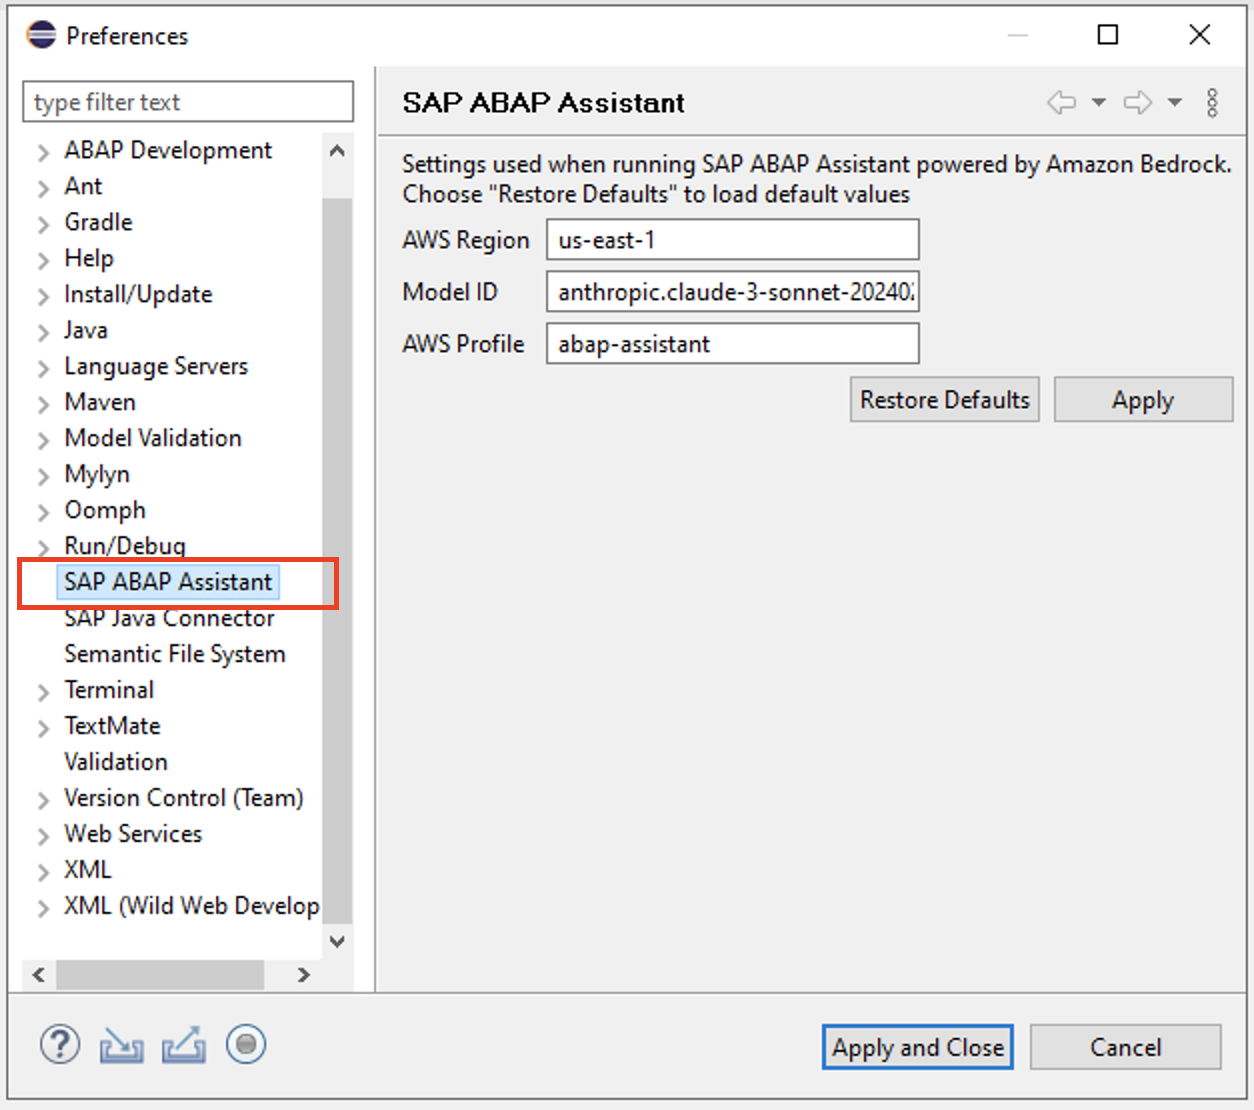
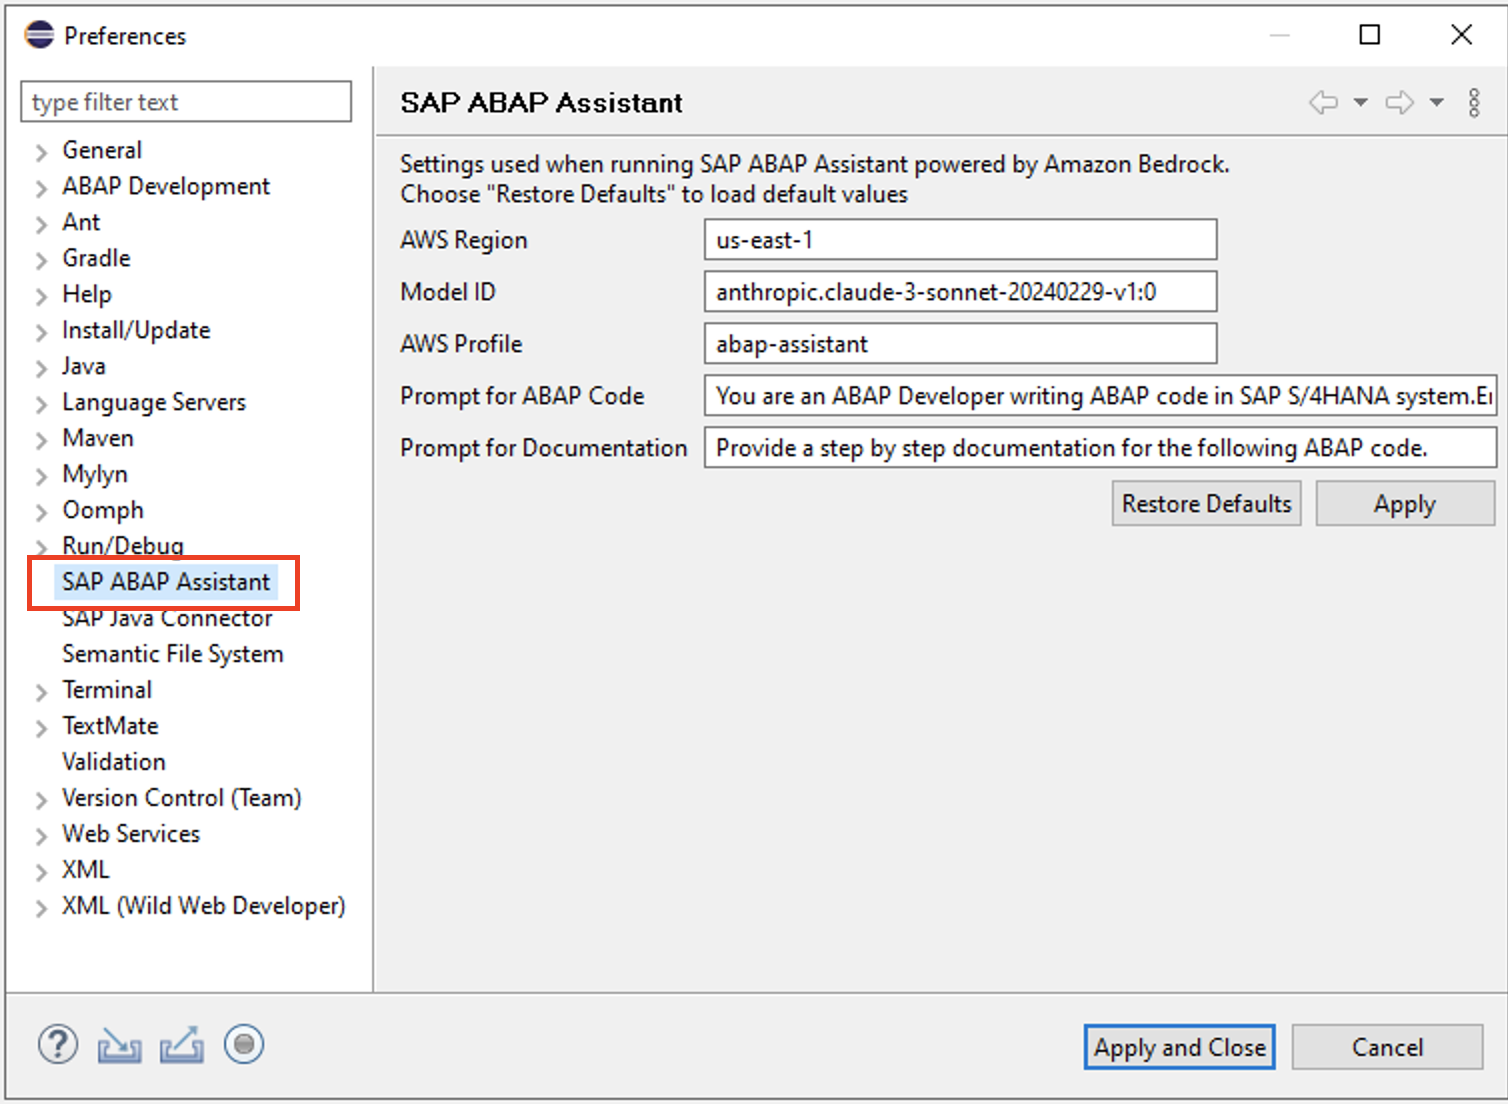
Update plugin version

Changed region(s): [[0.0, 0.0, 1.0, 1.0]]

diff --git a/source/com.demo.abap_assistant_plugin/src/com/demo/abap_assistant_plugin/preferences/ABAPAssistantPreferences.java b/source/com.demo.abap_assistant_plugin/src/com/demo/abap_assistant_plugin/preferences/ABAPAssistantPreferences.java
@@ -36,7 +36,7 @@ import com.demo.abap_assistant_plugin.helpers.ABAPAssistantConstants;
 public class ABAPAssistantPreferences extends FieldEditorPreferencePage implements IWorkbenchPreferencePage {
 
 	
-	StringFieldEditor awsRegion, modelId, awsProfile = null;
+	StringFieldEditor awsRegion, modelId, awsProfile, promptCode, promptDoc = null;
 	
 	
 	public ABAPAssistantPreferences() {
@@ -51,12 +51,17 @@ public class ABAPAssistantPreferences extends FieldEditorPreferencePage implemen
 
 	@Override
 	protected void createFieldEditors() {	
-		awsRegion = new StringFieldEditor(ABAPAssistantConstants.PREFERENCES_AWS_REGION, "AWS Region", 25, getFieldEditorParent());
+		awsRegion = new StringFieldEditor(ABAPAssistantConstants.PREFERENCES_AWS_REGION, "AWS Region", 35, getFieldEditorParent());
 		addField((FieldEditor)awsRegion);
-		modelId = new StringFieldEditor(ABAPAssistantConstants.PREFERENCES_MODEL_ID, "Model ID", 25, getFieldEditorParent());
+		modelId = new StringFieldEditor(ABAPAssistantConstants.PREFERENCES_MODEL_ID, "Model ID", 35, getFieldEditorParent());
 		addField((FieldEditor)modelId);
-		awsProfile = new StringFieldEditor(ABAPAssistantConstants.PREFERENCES_AWS_PROFILE, "AWS Profile", 25, getFieldEditorParent());
+		awsProfile = new StringFieldEditor(ABAPAssistantConstants.PREFERENCES_AWS_PROFILE, "AWS Profile", 35, getFieldEditorParent());
 		addField((FieldEditor)awsProfile);
+		promptCode = new StringFieldEditor(ABAPAssistantConstants.PREFERENCES_PROMPT_CODE, "Prompt for ABAP Code", 55, getFieldEditorParent());
+		addField((FieldEditor)promptCode);
+		promptDoc = new StringFieldEditor(ABAPAssistantConstants.PREFERENCES_PROMPT_DOC, "Prompt for Documentation", 55, getFieldEditorParent());
+		addField((FieldEditor)promptDoc);
+		
 	}
 	
 	@Override
@@ -66,6 +71,8 @@ public class ABAPAssistantPreferences extends FieldEditorPreferencePage implemen
 			pref.put(ABAPAssistantConstants.PREFERENCES_AWS_REGION, awsRegion.getStringValue(), true);
 			pref.put(ABAPAssistantConstants.PREFERENCES_MODEL_ID, modelId.getStringValue(), true);
 			pref.put(ABAPAssistantConstants.PREFERENCES_AWS_PROFILE, awsProfile.getStringValue(), true);
+			pref.put(ABAPAssistantConstants.PREFERENCES_PROMPT_CODE, promptCode.getStringValue(), true);
+			pref.put(ABAPAssistantConstants.PREFERENCES_PROMPT_DOC, promptDoc.getStringValue(), true);
 			pref.flush();
 		} catch (StorageException e) {
 			e.printStackTrace();
@@ -83,6 +90,8 @@ public class ABAPAssistantPreferences extends FieldEditorPreferencePage implemen
 			awsRegion.setStringValue(prefs.get(ABAPAssistantConstants.PREFERENCES_AWS_REGION, ""));
 			modelId.setStringValue(prefs.get(ABAPAssistantConstants.PREFERENCES_MODEL_ID, ""));
 			awsProfile.setStringValue(prefs.get(ABAPAssistantConstants.PREFERENCES_AWS_PROFILE, ""));
+			promptCode.setStringValue(prefs.get(ABAPAssistantConstants.PREFERENCES_PROMPT_CODE, ABAPAssistantConstants.PROMPT_ABAP_CODE));
+			promptDoc.setStringValue(prefs.get(ABAPAssistantConstants.PREFERENCES_PROMPT_DOC, ABAPAssistantConstants.PROMPT_ABAP_DOC));
 		} catch (StorageException e) {
 			e.printStackTrace();
 		}
@@ -95,6 +104,8 @@ public class ABAPAssistantPreferences extends FieldEditorPreferencePage implemen
 	    awsRegion.setStringValue(ABAPAssistantConstants.PREFERENCES_AWS_REGION_DEFAULT);
 	    modelId.setStringValue(ABAPAssistantConstants.PREFERENCES_MODEL_ID_DEFAULT);
 	    awsProfile.setStringValue(ABAPAssistantConstants.PREFERENCES_AWS_PROFILE_DEFAULT);
+	    promptCode.setStringValue(ABAPAssistantConstants.PROMPT_ABAP_CODE);
+	    promptDoc.setStringValue(ABAPAssistantConstants.PROMPT_ABAP_DOC);
 	}
 	
 

diff --git a/source/com.demo.abap_assistant_plugin/src/com/demo/abap_assistant_plugin/handlers/ABAPCodeHandler.java b/source/com.demo.abap_assistant_plugin/src/com/demo/abap_assistant_plugin/handlers/ABAPCodeHandler.java
@@ -79,12 +79,11 @@ public class ABAPCodeHandler extends AbstractHandler {
 							if (selectionProvider != null) {
 								ISelection selection = selectionProvider.getSelection();
 								ITextSelection textSelection = (ITextSelection) selection;
-								System.out.println("Selected text = " + textSelection.getText());
 
 								try {
 
 									String selectedText = textSelection.getText().replaceAll("\\*", "").trim();
-									System.out.println("promptText = " + selectedText);
+									//System.out.println("promptText = " + selectedText);
 									
 									if (!selectedText.equalsIgnoreCase("")) {
 
@@ -95,9 +94,8 @@ public class ABAPCodeHandler extends AbstractHandler {
 										// Anthropic Claude 2 Models
 										if (modelID.equalsIgnoreCase(ABAPAssistantConstants.CLAUDE_MODEL_ID_V2)
 												|| modelID.equalsIgnoreCase(ABAPAssistantConstants.CLAUDE_MODEL_ID_V2_1)) {
-											String prompt = "\n\nHuman: " + ABAPAssistantConstants.PROMPT_ABAP_CODE
+											String prompt = "\n\nHuman: " + ABAPAssistantHelper.getPreferences(ABAPAssistantConstants.PREFERENCES_PROMPT_CODE)
 													+ selectedText + "\nAssistant:";
-											System.out.println("Prompt is as follows \n" + prompt);
 											result = ABAPAssistantModelHelper.invokeClaude2Models(prompt, modelID);
 											doc.replace(doc.getLength(), 0, "\n" + result + "\n");
 										}
@@ -105,16 +103,14 @@ public class ABAPCodeHandler extends AbstractHandler {
 										else if (modelID
 												.equalsIgnoreCase(ABAPAssistantConstants.CLAUDE3_MODEL_ID_SONNET)
 												|| modelID.equalsIgnoreCase(ABAPAssistantConstants.CLAUDE3_MODEL_ID_HAIKU)) {
-											String prompt = ABAPAssistantConstants.PROMPT_ABAP_CODE + selectedText;
-											System.out.println("Prompt is as follows \n" + prompt);
+											String prompt = ABAPAssistantHelper.getPreferences(ABAPAssistantConstants.PREFERENCES_PROMPT_CODE) + selectedText;
 											result = ABAPAssistantModelHelper.invokeClaude3Models(prompt, modelID);
 											doc.replace(doc.getLength(), 0, "\n" + result + "\n");
 										}
 										// AI21 Jurassic Model
 										else if (modelID.equalsIgnoreCase(ABAPAssistantConstants.JURASSIC_MODEL_ID_MID)
 												|| modelID.equalsIgnoreCase(ABAPAssistantConstants.JURASSIC_MODEL_ID_ULTRA)) {
-											String prompt = ABAPAssistantConstants.PROMPT_ABAP_CODE + selectedText;
-											System.out.println("Prompt is as follows \n" + prompt);
+											String prompt = ABAPAssistantHelper.getPreferences(ABAPAssistantConstants.PREFERENCES_PROMPT_CODE) + selectedText;
 											result = ABAPAssistantModelHelper.invokeJurassicModels(prompt, modelID);
 											doc.replace(doc.getLength(), 0, "\n" + result + "\n");
 										}

diff --git a/source/com.demo.abap_assistant_plugin/src/com/demo/abap_assistant_plugin/handlers/ABAPDocumentationHandler.java b/source/com.demo.abap_assistant_plugin/src/com/demo/abap_assistant_plugin/handlers/ABAPDocumentationHandler.java
@@ -77,11 +77,10 @@ public class ABAPDocumentationHandler extends AbstractHandler {
 							if (selectionProvider != null) {
 								ISelection selection = selectionProvider.getSelection();
 								ITextSelection textSelection = (ITextSelection) selection;
-								System.out.println("Selected text = " + textSelection.getText());
 
 								try {
 									String selectedText = textSelection.getText().trim();;
-									System.out.println("promptText = " + selectedText);
+									//System.out.println("promptText = " + selectedText);
 									
 									if (!selectedText.equalsIgnoreCase("")) {
 	
@@ -92,21 +91,21 @@ public class ABAPDocumentationHandler extends AbstractHandler {
 										//Anthropic Claude 2 Models
 										if (modelID.equalsIgnoreCase(ABAPAssistantConstants.CLAUDE_MODEL_ID_V2) || 
 											modelID.equalsIgnoreCase(ABAPAssistantConstants.CLAUDE_MODEL_ID_V2_1)) {
-											String prompt = "\n\nHuman: " + ABAPAssistantConstants.PROMPT_ABAP_DOC + selectedText + "\nAssistant:";
+											String prompt = "\n\nHuman: " + ABAPAssistantHelper.getPreferences(ABAPAssistantConstants.PREFERENCES_PROMPT_DOC) + selectedText + "\nAssistant:";
 											result = ABAPAssistantModelHelper.invokeClaude2Models(prompt, modelID);
 											ABAPAssistantHelper.writeToConsole(result, activePage);
 										}
 										//Anthropic Claude 3 Models
 										else if (modelID.equalsIgnoreCase(ABAPAssistantConstants.CLAUDE3_MODEL_ID_SONNET) ||
 											modelID.equalsIgnoreCase(ABAPAssistantConstants.CLAUDE3_MODEL_ID_HAIKU)) {
-											String prompt = ABAPAssistantConstants.PROMPT_ABAP_DOC + selectedText;
+											String prompt = ABAPAssistantHelper.getPreferences(ABAPAssistantConstants.PREFERENCES_PROMPT_DOC) + selectedText;
 											result = ABAPAssistantModelHelper.invokeClaude3Models(prompt, modelID);
 											ABAPAssistantHelper.writeToConsole(result, activePage);
 										}
 										//AI21 Jurassic Model
 										else if (modelID.equalsIgnoreCase(ABAPAssistantConstants.JURASSIC_MODEL_ID_MID)|| 
 												 modelID.equalsIgnoreCase(ABAPAssistantConstants.JURASSIC_MODEL_ID_ULTRA)) {
-											String prompt = ABAPAssistantConstants.PROMPT_ABAP_DOC + selectedText;
+											String prompt = ABAPAssistantHelper.getPreferences(ABAPAssistantConstants.PREFERENCES_PROMPT_DOC) + selectedText;
 											result = ABAPAssistantModelHelper.invokeJurassicModels(prompt, modelID);
 											ABAPAssistantHelper.writeToConsole(result, activePage);
 										}

diff --git a/source/com.demo.abap_assistant_plugin/src/com/demo/abap_assistant_plugin/helpers/ABAPAssistantHelper.java b/source/com.demo.abap_assistant_plugin/src/com/demo/abap_assistant_plugin/helpers/ABAPAssistantHelper.java
@@ -48,7 +48,7 @@ public class ABAPAssistantHelper {
 		ISecurePreferences prefs = SecurePreferencesFactory.getDefault();
 		String prefvalue = "";
 		prefvalue = prefs.get(prefName, "").trim();
-		System.out.println(prefName+" = "+prefvalue);
+		//System.out.println(prefName+" = "+prefvalue);
 		return prefvalue;	
 	}
 	
@@ -90,7 +90,9 @@ public class ABAPAssistantHelper {
 	public static boolean checkPreferences() throws StorageException {
 		if(getPreferences(ABAPAssistantConstants.PREFERENCES_AWS_PROFILE).equals("")
 		   || getPreferences(ABAPAssistantConstants.PREFERENCES_AWS_REGION).equals("")
-		   || getPreferences(ABAPAssistantConstants.PREFERENCES_MODEL_ID).equals("")) {
+		   || getPreferences(ABAPAssistantConstants.PREFERENCES_MODEL_ID).equals("")
+		   || getPreferences(ABAPAssistantConstants.PREFERENCES_PROMPT_CODE).equals("")
+		   || getPreferences(ABAPAssistantConstants.PREFERENCES_PROMPT_DOC).equals("")){
 			return false;
 		}
 		return true;

diff --git a/source/com.demo.abap_assistant_plugin/src/com/demo/abap_assistant_plugin/helpers/ABAPAssistantConstants.java b/source/com.demo.abap_assistant_plugin/src/com/demo/abap_assistant_plugin/helpers/ABAPAssistantConstants.java
@@ -33,6 +33,8 @@ public class ABAPAssistantConstants {
 	public static final String PREFERENCES_AWS_REGION = "AWS-REGION";
 	public static final String PREFERENCES_MODEL_ID = "MODEL-ID";
 	public static final String PREFERENCES_AWS_PROFILE = "AWS-PROFILE";	
+	public static final String PREFERENCES_PROMPT_CODE = "PROMPT-CODE";	
+	public static final String PREFERENCES_PROMPT_DOC = "PROMPT-DOC";	
 
 	// Eclipse preferences Default constants
 	public static final String PREFERENCES_AWS_REGION_DEFAULT = "us-east-1";

diff --git a/README.md b/README.md
@@ -13,6 +13,7 @@
 5. [Setup](#setup)
     - [Authentication](#authentication)
     - [Plugin Installation](#plugin-installation)
+    - [Plugin Configuration](#plugin-configuration)
 6. [Running the Guidance](#running-the-guidance)
 7. [Next Steps](#next-steps)
 8. [Cleanup](#cleanup)
@@ -184,7 +185,7 @@ This guidance utilizes the `AdministratorAccess` role for deployment. For use in
     ```
 
 ### Plugin Installation
-1. From the main page of the GitHub repository, click **[Releases](https://github.com/aws-solutions-library-samples/guidance-for-improving-application-development-productivity-with-the-sap-abap-assistant-on-aws/releases)** . From the latest listed releae, download the SAP ABAP Assistant plugin zip file (for e.g. sap-abap-assistant-V1_0_17.zip) from the **Assets** section. Save the plugin zip file in your local file system.
+1. From the main page of the GitHub repository, click **[Releases](https://github.com/aws-solutions-library-samples/guidance-for-improving-application-development-productivity-with-the-sap-abap-assistant-on-aws/releases)** . From the latest listed releae, download the SAP ABAP Assistant plugin zip file (for e.g. sap-abap-assistant-V1_0_18.zip) from the **Assets** section. Save the plugin zip file in your local file system.
 
 2. Open Eclipse IDE and choose **Help -> Install New Software**. Choose the **Add…** button. In the next dialog window, choose **Archive…** and select the zip file that you downloaded. Choose **Add**.
 
@@ -211,6 +212,10 @@ Before using ABAP Assistant plugin , you need to set up the plugin preferences i
 * **Model ID** – Enter `anthropic.claude-3-sonnet-20240229-v1:0`. The plugin currently supports Anthropic Claude (v2, v2.1, Claude 3 Sonnet and Claude 3 Haiku) and Jurassic-2 (mid and ultra) models . Refer [this documentation](https://docs.aws.amazon.com/bedrock/latest/userguide/model-ids.html) for list of Amazon bedrock Model IDs. 
 
 * **AWS Profile** – Enter the name of the AWS profile `abap-assistant` that you created
+
+* **Prompt for ABAP Code** – The prompt for generating ABAP code is prepopulated. If required, you can change the prompt as per your requirements.
+
+* **Prompt for Docmentation** – The prompt for generating ABAP documentation is prepopulated. If required, you can change the prompt as per your requirements.
 
 The following screenshot shows the SAP ABAP Assistant plugin preferences page.
 
@@ -301,7 +306,7 @@ cd ./guidance-for-improving-application-development-productivity-with-the-sap-ab
 ### Uninstall SAP ABAP Assistant Plugin
 If you want to unisntall the ABAP Assitant from Eclipse, proceed with the below steps:
 
-1. In Eclipse IDE, navigate to **Help -> About Eclipse IDE** and then choose **Installation Details** to list the installed softwares.
+1. In Eclipse IDE, choose **Help -> About Eclipse IDE** (on Windows), or **Eclipse -> About Eclipse** (on MacOS) and then choose **Installation Details** to list the installed softwares.
 
     ![About Eclipse option in Eclipse IDE](assets/images/cleanup/about-eclipse.png)
 
